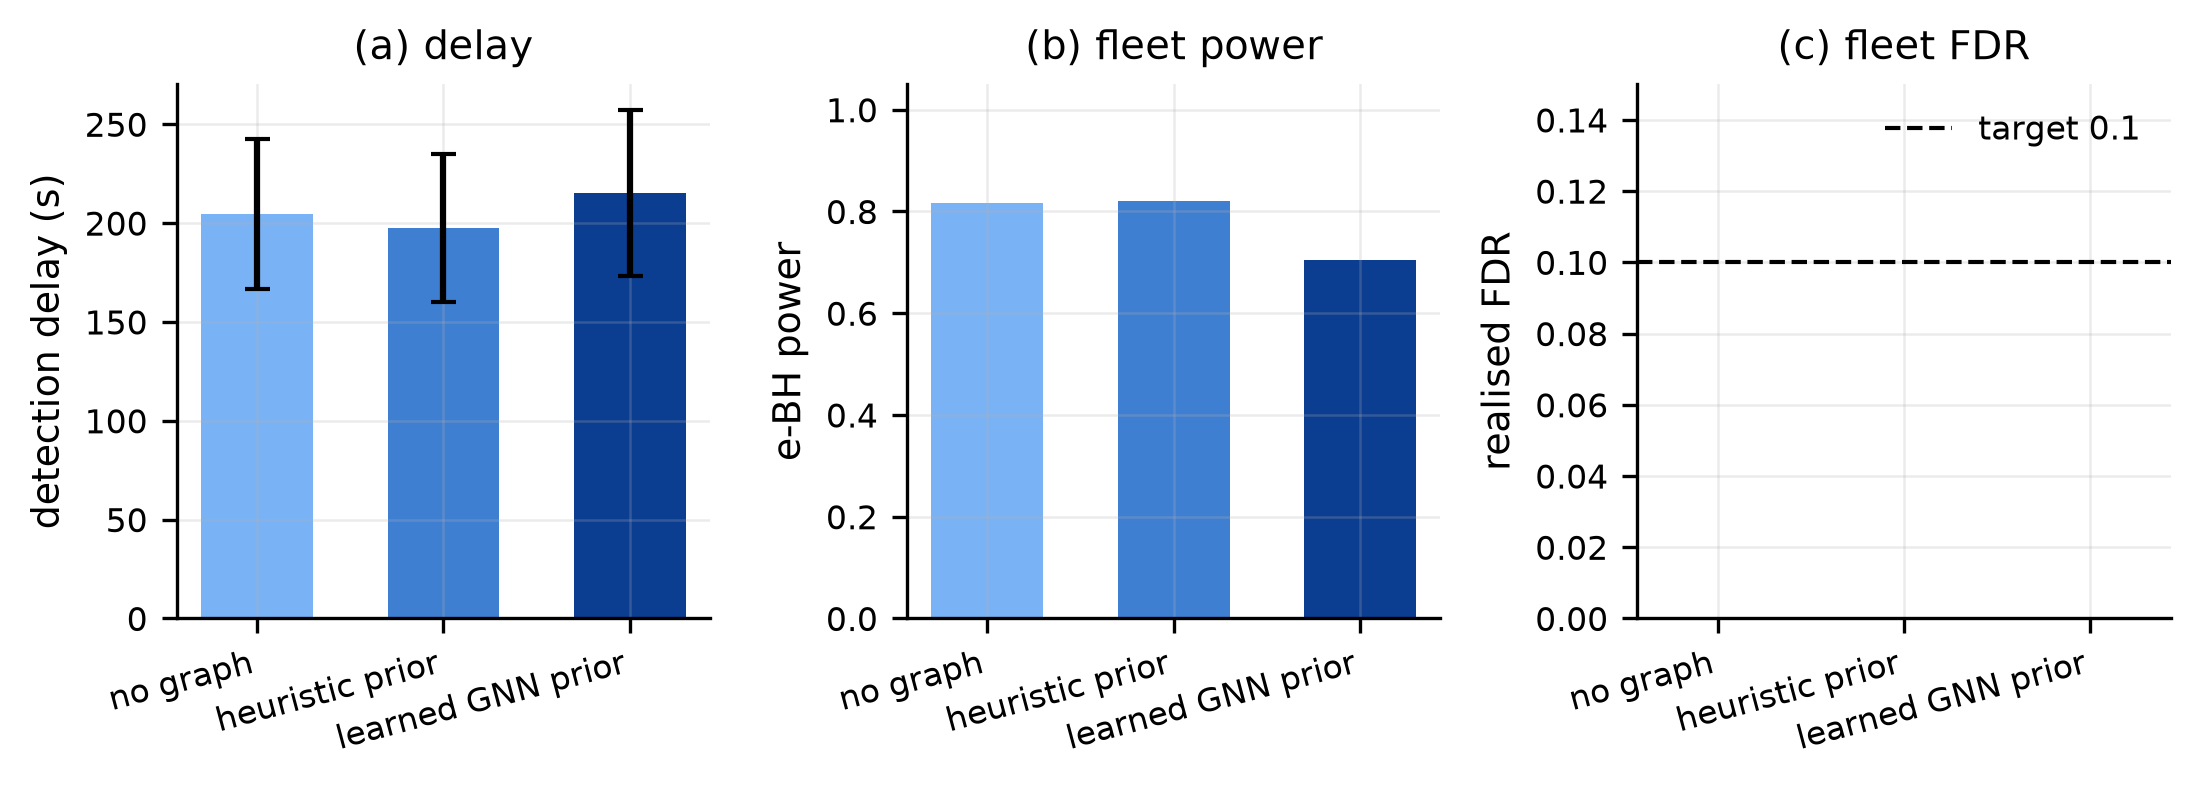
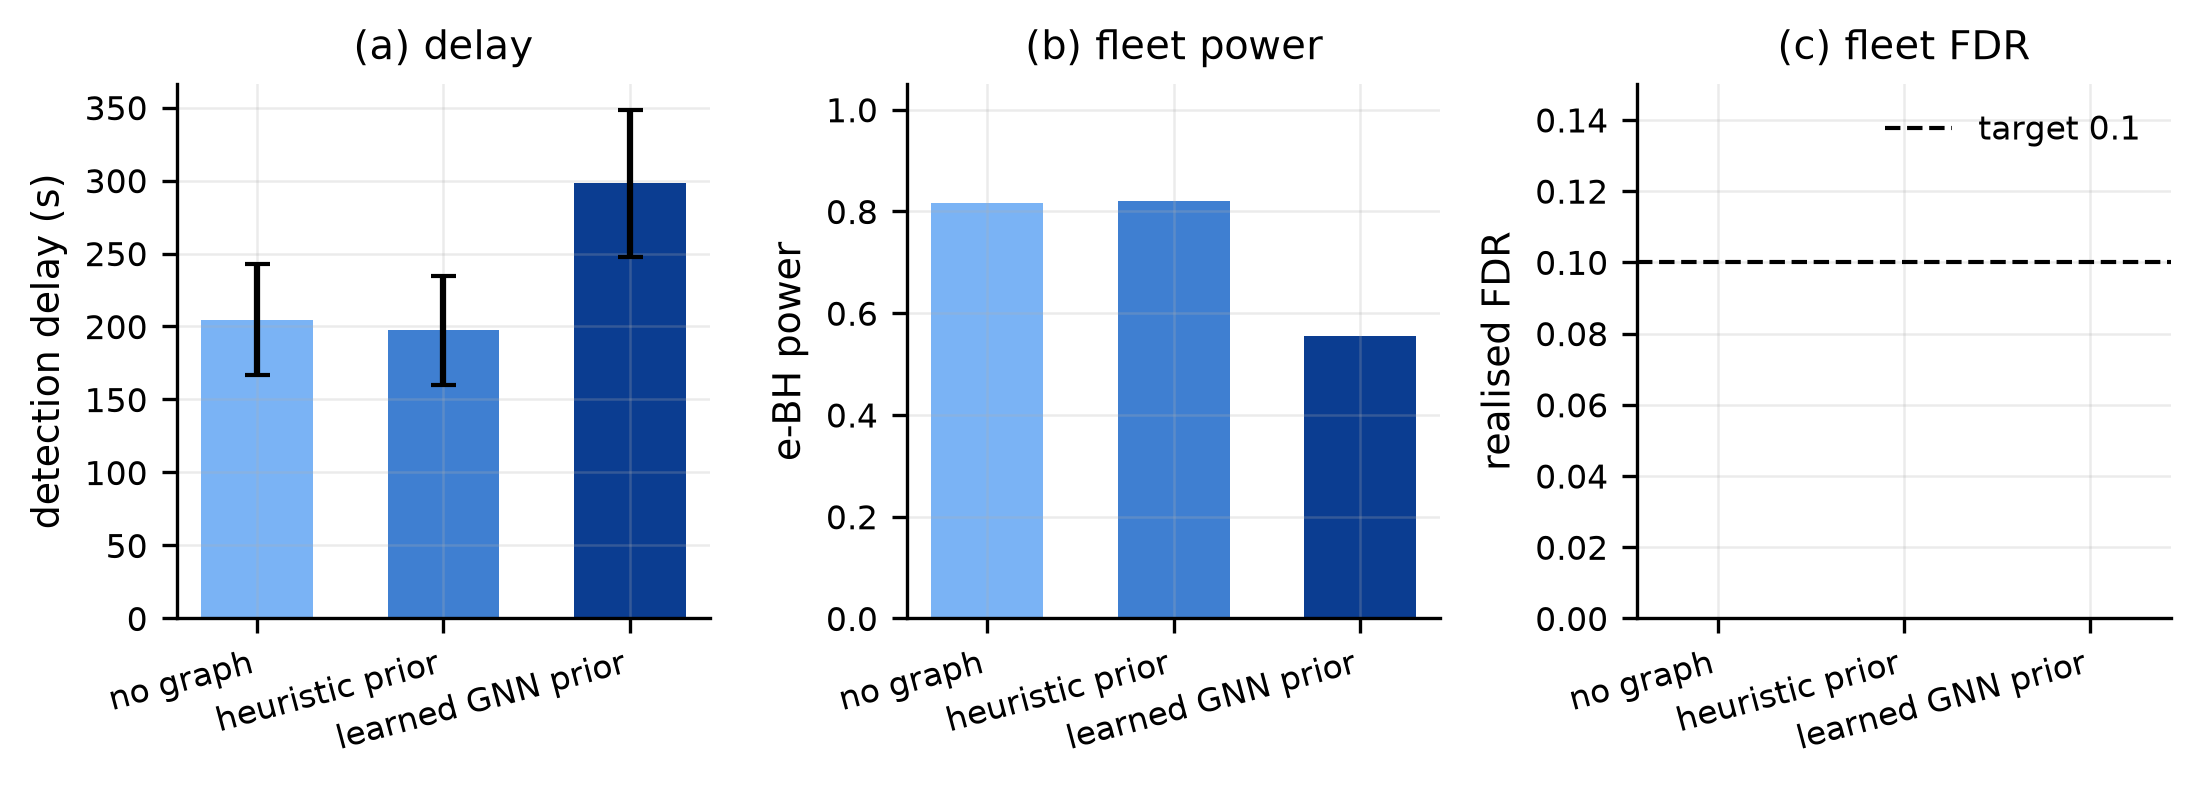
Keep the stronger controller objective as default; record the comparison
The delay-targeted objective is better motivated -- detection delay is the time
the wealth takes to reach 1/alpha, so terminal wealth is the wrong target -- and
it performed worse, dropping e-BH power from 0.704 to 0.555. Terminal wealth is
therefore restored as the default and the windowed objective sits behind a flag
so the comparison can be reproduced.

The paper reports both numbers and the inference they support: a
better-motivated objective performing worse, together with training gain that
drifts downward rather than up, indicates a weak gradient signal rather than a
mistuned optimiser. There is little for the spatial controller to learn here.

diff --git a/sentinel_e/gnn.py b/sentinel_e/gnn.py
@@ -296,7 +296,7 @@ def train_spatial_prior(
     epochs: int = 30,
     lr: float = 3e-3,
     pre_change_penalty: float = 0.35,
-    credit_window: int = 400,
+    credit_window: Optional[int] = None,
     config: Optional[SpatialPriorConfig] = None,
     seed: int = 0,
     verbose: bool = False,
@@ -407,17 +407,16 @@ def train_spatial_prior(
             mix = torch.softmax(w, dim=-1)
             posterior = (mix * a).sum(dim=-1)
 
-            # Reward wealth *early* after the onset, not at the horizon.  The
-            # detection delay is the time the wealth takes to reach 1/alpha, so
-            # a camera that ends the stream rich but climbed slowly is no use;
-            # scoring only the final wealth lets the controller trade delay for
-            # terminal wealth, which is the opposite of what we want.  Credit is
-            # therefore accumulated over a window that opens at each camera's
-            # own onset.
-            in_window = (
-                (t >= onset) & (t < onset + credit_window) & (affected > 0)
-            ).float()
-            credit = credit + (log_W * in_window).sum() / float(credit_window)
+            if credit_window is not None:
+                # Optional delay-targeted objective: credit wealth only over a
+                # window opening at each camera's own onset, rather than at the
+                # horizon.  Better motivated -- delay is the time the wealth
+                # takes to reach 1/alpha, so terminal wealth is the wrong thing
+                # to maximise -- and measurably worse in practice.
+                in_window = (
+                    (t >= onset) & (t < onset + credit_window) & (affected > 0)
+                ).float()
+                credit = credit + (log_W * in_window).sum() / float(credit_window)
 
             nlp = nlp_all[:, :, t].unsqueeze(-1)
             ema = decays * ema + (1.0 - decays) * nlp
@@ -431,7 +430,9 @@ def train_spatial_prior(
                 log_W = log_W.detach()
                 posterior = posterior.detach()
 
-        gain = credit / torch.clamp(affected.sum(), min=1.0)
+        gain = (
+            credit if credit_window is not None else (log_W * affected).sum()
+        ) / torch.clamp(affected.sum(), min=1.0)
         idle = ((torch.clamp(log_W, min=0.0)) * (1.0 - affected)).sum() / torch.clamp(
             (1.0 - affected).sum(), min=1.0
         )

diff --git a/paper/sentinel_e.tex b/paper/sentinel_e.tex
@@ -1062,16 +1062,25 @@ is indistinguishable from no graph at all --- \NetHeuristicDelaySec\,s against
 power \NetHeuristicPower{} against \NetNoGraphPower. The learned controller is
 worse than both: delay \NetGnnDelaySec\,s and power \NetGnnPower.
 
-We made two attempts to fix this before concluding it. The first was
+We made two attempts to fix this before concluding it, and the second is worth
+recording because it failed in an informative direction. The first was
 initialisation: the controller's heads are set so that an untrained network
 reproduces the ungoverned detector exactly, rather than starting at half stake
 and a twenty-five-fold hazard, so training begins from the baseline and can only
-improve on it in-sample. The second was the objective: rewarding terminal
-log-wealth lets the controller trade delay for terminal wealth, so we replaced
-it with log-wealth credited over a window opening at each camera's own onset,
-which targets delay directly. Neither closed the gap, and under the second
-objective the training gain drifts slightly downward, which suggests the
-gradient signal is weak rather than that the optimiser is mistuned.
+improve on it in-sample. That is now the default and it is what the table
+reports. The second was the objective. Maximising terminal log-wealth is
+plainly the wrong target --- detection delay is the time the wealth takes to
+reach $1/\alpha$, so a camera that ends the stream rich but climbed slowly is no
+use --- and we replaced it with log-wealth credited over a window opening at
+each camera's own onset. The better-motivated objective performed
+\emph{worse}: power fell from \NetGnnPower{} to $0.555$. We report the stronger
+of the two configurations here and keep the windowed objective in the library
+behind a flag so the comparison can be reproduced.
+
+That a better-motivated objective makes things worse, and that the training gain
+under it drifts downward rather than up, both point the same way: the gradient
+signal is weak, not the optimiser mistuned. There is little for the controller
+to learn.
 
 Our reading is that the spatial signal in these streams is real but small
 relative to what a camera learns from its own p-values: an episode propagates to

diff --git a/results/tables/tab6_network.tex b/results/tables/tab6_network.tex
@@ -8,7 +8,7 @@ spatial prior & delay (s) & miss & e-BH power & e-BH FDR & null fleet PFA & null
 \midrule
 independent detectors & 204.6 $\pm$ 37.9 & 0.19 & 0.816 & 0.000 & 0.000 & 0.000 \\
 heuristic spatial prior & 197.4 $\pm$ 37.4 & 0.18 & 0.821 & 0.000 & 0.000 & 0.000 \\
-learned GNN spatial prior & 215.4 $\pm$ 42.0 & 0.30 & 0.704 & 0.000 & 0.000 & 0.000 \\
+learned GNN spatial prior & 298.2 $\pm$ 50.3 & 0.44 & 0.555 & 0.000 & 0.000 & 0.000 \\
 \bottomrule
 \end{tabular}
 \end{table}
